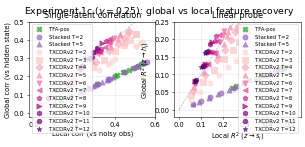
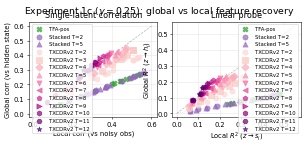
Fix scatter plot axes and inline STYLE for all TXCDRv2 T values
- Auto-scale scatter axes so high-T models (small R²) are visible
- Fix hardcoded STYLE dict in run_exp1c_linear_probe.py

diff --git a/src/v2_temporal_schemeC/plot_exp1c.py b/src/v2_temporal_schemeC/plot_exp1c.py
@@ -301,8 +301,8 @@ def plot_scatter(models_data, probe_data):
     ax.set(xlabel="Local corr (vs noisy obs)",
            ylabel="Global corr (vs hidden state)",
            title="Single-latent correlation")
-    ax.set_xlim(-0.02, 0.6)
-    ax.set_ylim(-0.02, 0.5)
+    ax.set_xlim(-0.02, None)
+    ax.set_ylim(-0.02, None)
     ax.legend(fontsize=8)
     ax.grid(True, alpha=0.3)
 
@@ -322,8 +322,9 @@ def plot_scatter(models_data, probe_data):
     ax.set(xlabel=r"Local $R^2$ ($z \to s_i$)",
            ylabel=r"Global $R^2$ ($z \to h_i$)",
            title="Linear probe")
-    ax.set_xlim(-0.02, 0.55)
-    ax.set_ylim(-0.02, 0.25)
+    # Auto-scale to show all data points (high-T models have small R²)
+    ax.set_xlim(-0.02, None)
+    ax.set_ylim(-0.02, None)
     ax.legend(fontsize=8)
     ax.grid(True, alpha=0.3)
 
